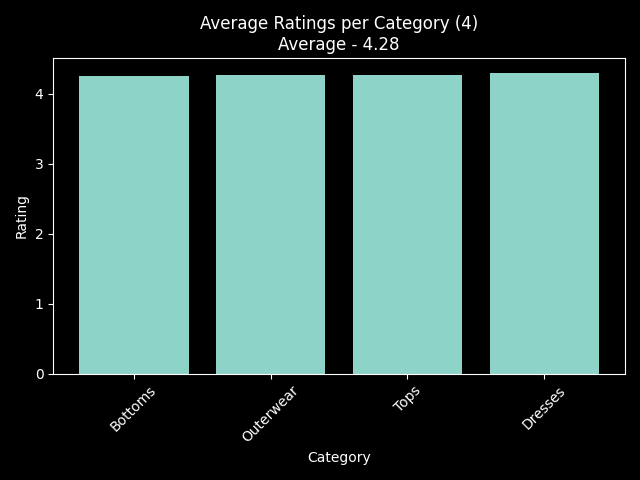
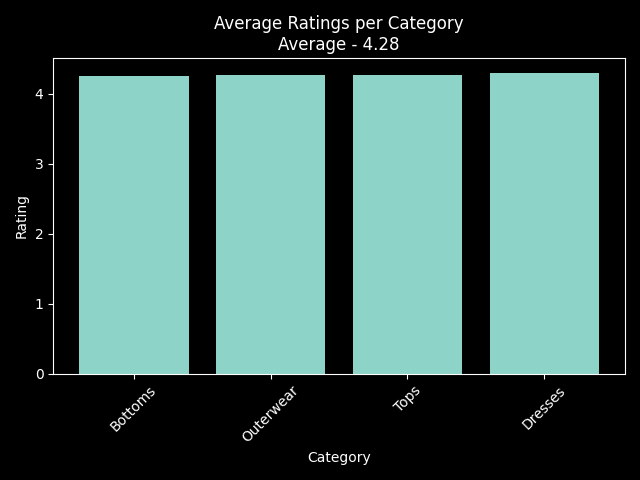
better graphs

Changed region(s): [[0.3125, 0.0312, 0.75, 0.0625]]

diff --git a/src/eda.py b/src/eda.py
@@ -49,7 +49,7 @@ class EDA:
 
 		og_title_text = title_text
 
-		title_text += f' ({len(x)})\nAverage - {round(np.mean(y), 2)}'
+		title_text += f'\nAverage - {round(np.mean(y), 2)}'
 		if len(x) > 20:
 			plt.figure(figsize = (len(x) / 3, 5))
 
@@ -106,17 +106,17 @@ class EDA:
 			plt.show()
 
 
-	def ratings_per_product_most_popular(self, show = 50):
-		self._plotting_helper(show, 'item_id', title_text = 'Average Ratings per Product - Most Popular Products', xlabel = 'Product ID', mean = True, reverse = False)
+	def ratings_per_product_most_popular(self, show = 30):
+		self._plotting_helper(show, 'item_id', title_text = f'Average Ratings per Product - Most Popular Products ({show})', xlabel = 'Product ID', mean = True, reverse = False)
 
-	def ratings_per_product_least_popular(self, show = 50):
-		self._plotting_helper(show, 'item_id', title_text = 'Average Ratings per Product - Least Popular Products', xlabel = 'Product ID', mean = True, reverse = True)
+	def ratings_per_product_least_popular(self, show = 30):
+		self._plotting_helper(show, 'item_id', title_text = f'Average Ratings per Product - Least Popular Products ({show})', xlabel = 'Product ID', mean = True, reverse = True)
 
-	def ratings_count_per_product_most_popular(self, show = 50):
-		self._plotting_helper(show, 'item_id', title_text = 'Total Ratings per Product - Most Popular Products', xlabel = 'Product ID',  mean = False, reverse = False)
+	def ratings_count_per_product_most_popular(self, show = 30):
+		self._plotting_helper(show, 'item_id', title_text = f'Total Ratings per Product - Most Popular Products ({show})', xlabel = 'Product ID',  mean = False, reverse = False)
 
-	def ratings_count_per_product_least_popular(self, show = 50):
-		self._plotting_helper(show, 'item_id', title_text = 'Total Ratings per Product - Least Popular Products', xlabel = 'Product ID', mean = False, reverse = True)
+	def ratings_count_per_product_least_popular(self, show = 30):
+		self._plotting_helper(show, 'item_id', title_text = f'Total Ratings per Product - Least Popular Products ({show})', xlabel = 'Product ID', mean = False, reverse = True)
 
 	def ratings_per_category(self, show = 4):
 		self._plotting_helper(show, 'category', title_text = 'Average Ratings per Category', xlabel = 'Category', mean = True, reverse = False)
